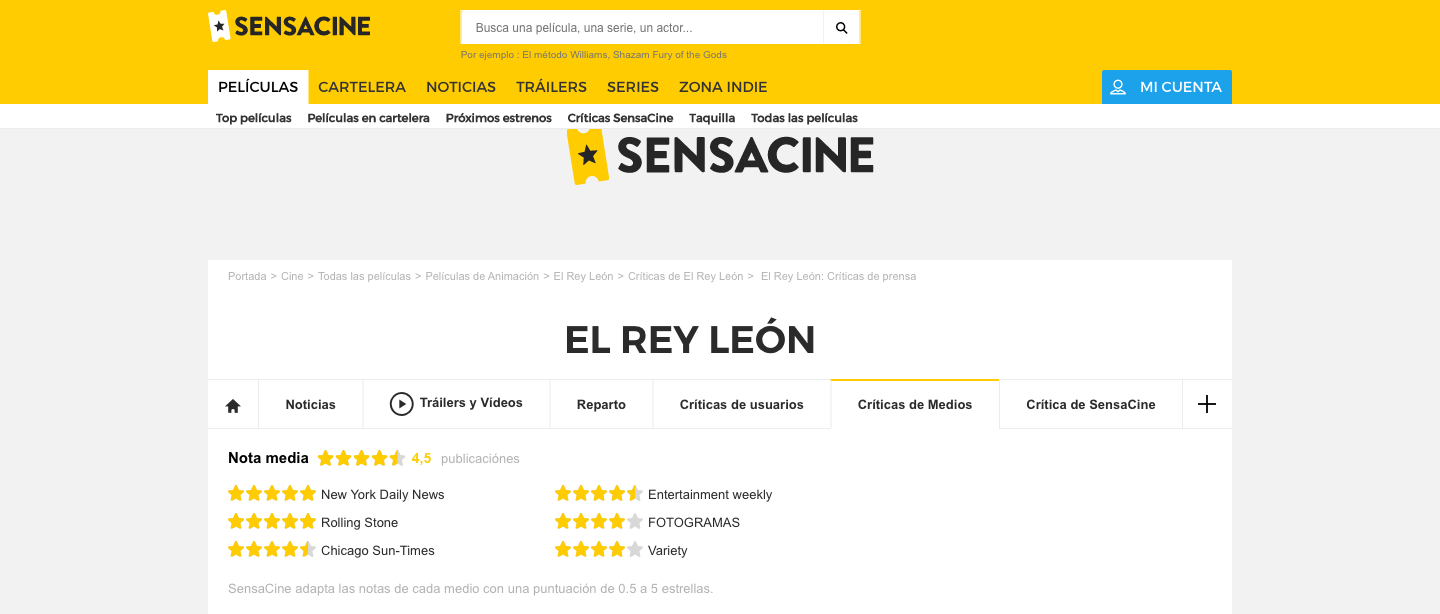
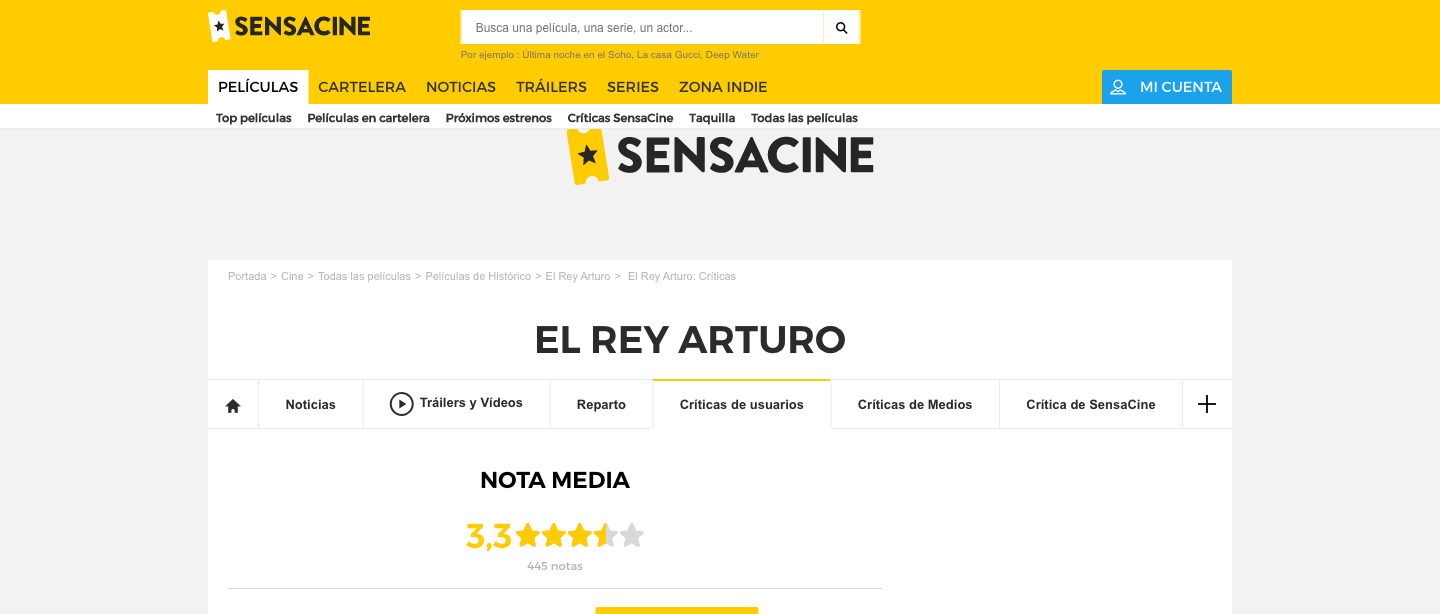
ADD functions scrap. Still to be finished

diff --git a/utils/scrap_sensacine.js b/utils/scrap_sensacine.js
@@ -1,3 +1,4 @@
+
 const puppeteer = require('puppeteer');
 
 const scrap_sensacine = async (title) => {
@@ -21,24 +22,53 @@ const scrap_sensacine = async (title) => {
     await page.waitForSelector('.mdl')
     await page.screenshot({ path: 'sensacine3.png' });
 
-    //me lleva a las reviews de ¿¿usuarios??
-    await page.click('.rating-holder a');
-    await page.waitForSelector('.hred')
-    await page.screenshot({ path: 'sensacine4.png' });
 
-
-    //inspeccionamos página
-   const review = await page.evaluate(() => {
-    let reviews = document.querySelectorAll(".hred review-card cf")
-    return reviews;
+    
+    //inspeccionamos página para sacar los enlaces de las reviews
+   const links = await page.evaluate(() => { 
+        const elements = document.querySelectorAll('.rating-holder a')
+        return elements.map((element) => element.href)
     })
+    console.log("Estos son los resultados y enlaces", links);
 
-    console.log(review);
+
+    //buscamos el enlace que contenga "criticas-espectadores"
+    const match = links.find(element => element.includes('criticas-espectadores'));
+    console.log("Resultado de match: ", match);
+    
+   
+    //hacemos click en ese enlace
+    await page.goto(match);
+    /* await page.waitForSelector('.hred') */
+    await page.screenshot({ path: 'sensacine4.png' });
+     
+
+
+    const review = [];
+    
+
+
+    for(let enlace of enlaces){
+        await page.goto(enlace);
+        await page.waitForSelector('h1');
+
+        const oferta = await page.evaluate(()=>{
+            const tmp = {};
+            tmp.title = document.querySelector('h1').innerText;
+            tmp.company = document.querySelector('h2').innerText;
+            tmp.salary = document.querySelector('dd:nth-of-type(4n)').innerText;
+            tmp.url = window.location.href;
+            return tmp
+        });
+        ofertas.push(oferta);
+    }
+    console.log("Scrap Domestika conseguido!")
 
 
     await browser.close();
 
 };
 
-scrap_sensacine("rey leon 2");
+scrap_sensacine("el rey arturo");
+
 
